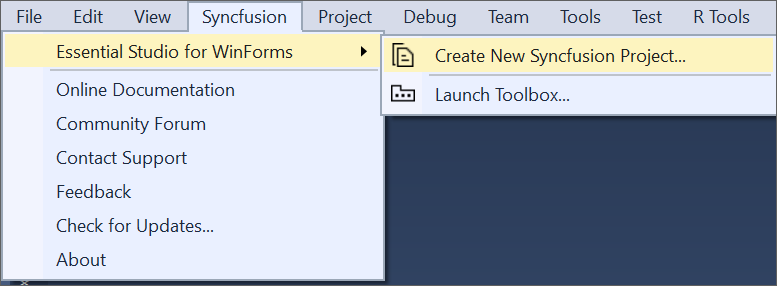
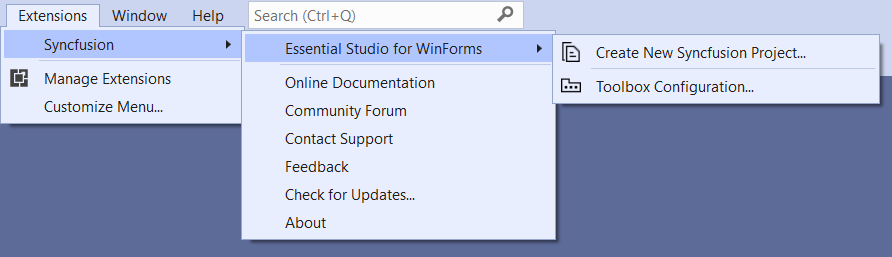
EXT-6140-Vol2Changes

diff --git a/WindowsForms/Visual-Studio-Integration/Visual-Studio-Extensions/Create-Project.md b/WindowsForms/Visual-Studio-Integration/Visual-Studio-Extensions/Create-Project.md
@@ -21,20 +21,20 @@ Use the following steps to create the Syncfusion Windows Forms project through t
 1. To create a Syncfusion Windows Forms project, follow either one of the options below:  
     
    **Option 1:**  
-   Click **Syncfusion Menu** and choose **Essential Studio for WinForms > Create New Syncfusion Project…** in **Visual Studio**.
+   Click **Extensions >Syncfusion Menu** and choose **Essential Studio for WinForms > Create New Syncfusion Project…**  in **Visual Studio**.
 
    ![Choose Syncfusion Windows Forms Application via Syncfusion menu](Project-Template-images\Syncfusion_Menu_ProjectTemplate.png)
 
-   N> In Visual Studio 2019, Syncfusion menu is available under Extensions in Visual Studio menu.
+   N> In Visual Studio 2017 or lower, the Syncfusion menu is available in the Visual Studio menu.
 
    **Option 2:**  
-    Choose **File > New > Project** and navigate to **Syncfusion > Windows > Syncfusion Windows Forms Application** in **Visual Studio**.
-
-   ![Choose Syncfusion Windows Forms Application from Visual Studio new project dialog](Project-Template-images\Syncfusion-Project-Template-Gallery-1.png)
-
-   In Visual Studio 2019 Select File -> New -> Project. Opens a new dialog to create a new project. You can obtain the templates provided by Syncfusion for WinForms  by filtering the project type with Syncfusion or by using the Syncfusion keyword in the search option.
+    Choose **File -> New -> Project**. Opens a new dialog to create a new project. You can obtain the templates provided by Syncfusion for WinForms by filtering the project type with Syncfusion or by using the Syncfusion keyword in the search option
 
    ![Choose Syncfusion Windows Forms Application from Visual Studio new project dialog](Project-Template-images\Syncfusion-Project-Template-Gallery2019-1.png)
+
+   In Visual Studio 2017 or lower, Select File > New > Project and navigate to Syncfusion > Windows > Syncfusion Windows Forms Application in Visual Studio.
+
+   ![Choose Syncfusion Windows Forms Application from Visual Studio new project dialog](Project-Template-images\Syncfusion-Project-Template-Gallery-1.png)
 
 2. Name the **Project**, choose the destination location when required, and set the .NET Framework of the project, then click **OK**.  
 
@@ -42,43 +42,29 @@ Use the following steps to create the Syncfusion Windows Forms project through t
 
 3. Choose the options to configure the Syncfusion WinForms Application by using the following Project Configuration Wizard.  
   
-   ![Syncfusion Windows Forms project configuration wizard](Project-Template-images\Syncfusion-Project-Template-Gallery-2.png)
-
-   In Visual Studio 2019 Syncfusion Windows Forms Application project configuration wizard.
-
    ![Syncfusion Windows Forms project configuration wizard](Project-Template-images\Syncfusion-Project-Template-Gallery2019-2.png)
+
+   In Visual Studio 2017 or lower, Syncfusion Windows Forms Application project configuration wizard.
+
+   ![Syncfusion Windows Forms project configuration wizard](Project-Template-images\Syncfusion-Project-Template-Gallery-2.png)
                                                      
    **Project Configurations**
 
    **Project Type:** Select the project type, either .NET Framework or .NET Core.
 
-   ![Choose the project type in Syncfusion Windows Forms project configuration wizard](Project-Template-images\Syncfusion-Project-Template-Gallery-11.png)
-
    N> Project type selection option will be available only in Visual Studio 2019 Syncfusion Windows Forms Project template configuration. The .NET Core 3.1 and .NET 5.0 option will be listed in project type only when the .NET Core 3.1 and .NET 5.0 setup has been installed.
 
-   **Language:** Select the language, either C# or VB. 
+   **Language:** Select the language, either CSharp or VB.
 
-   ![Choose the language in Syncfusion Windows Forms project configuration wizard](Project-Template-images\Syncfusion-Project-Template-Gallery-3.png)
-
-   N> C# language is available only when you choose .NET 5.0 and .NET Core 3.1 from project type option in Visual Studio 2019.
-
-   ![Choose the language in Syncfusion Windows Forms .NET Core project configuration wizard](Project-Template-images\Syncfusion-Project-Template-Gallery-9.png)
-
-   **Assemblies From:** Choose the assembly location from where it is going to be added to the project.
-
-   ![Choose the assembly location from where assemblies to be added to the project](Project-Template-images\Syncfusion-Project-Template-Gallery-4.png)
+   **Reference From:** Choose the assembly location from where it is going to be added to the project.
 
    N> Installed location and GAC option will be available only when the Syncfusion Essential Windows Forms setup has been installed. You can use NuGet option without installing the Syncfusion Essential Windows Forms setup. Also, the GAC option will not be available when you choose .NET 5.0 and .NET Core 3.1 from project type option in Visual Studio 2019.
 
    **Installed ES Build Version:** Choose the build version to add the corresponding version assemblies to the project.
 
-   ![Choose the Buid version to be added the corresponding version assemblies to the project](Project-Template-images\Syncfusion-Project-Template-Gallery-12.png)
-
    N> Installed ES build version option will be available only when you install the Syncfusion Essential Windows Forms setup and choose the assembly location as Installed Location or GAC.
 
-   **Select Control:** Choose the control as required. 
-
-   ![Choose the required control in Syncfusion Windows Forms project configuration wizard](Project-Template-images\Syncfusion-Project-Template-Gallery-13.png)
+   **Select Window:** Choose the window as required for application.
       
 4. After the Project Configuration Wizard is done, the Syncfusion WinForms project is created with required references and forms. 
 
